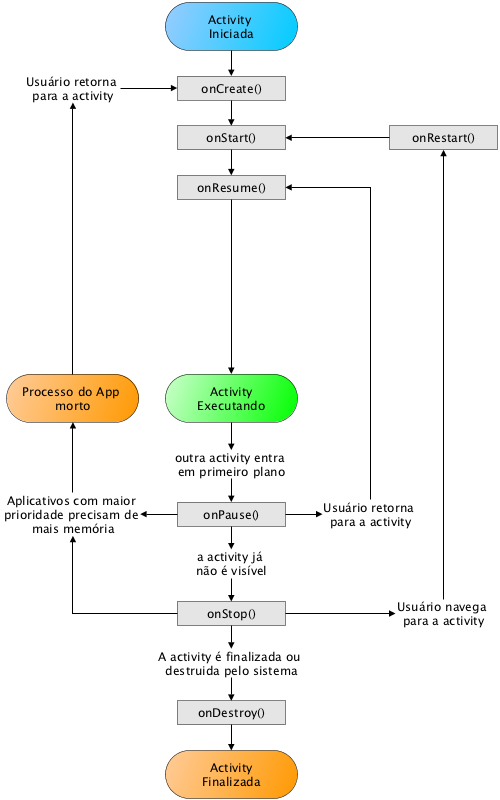
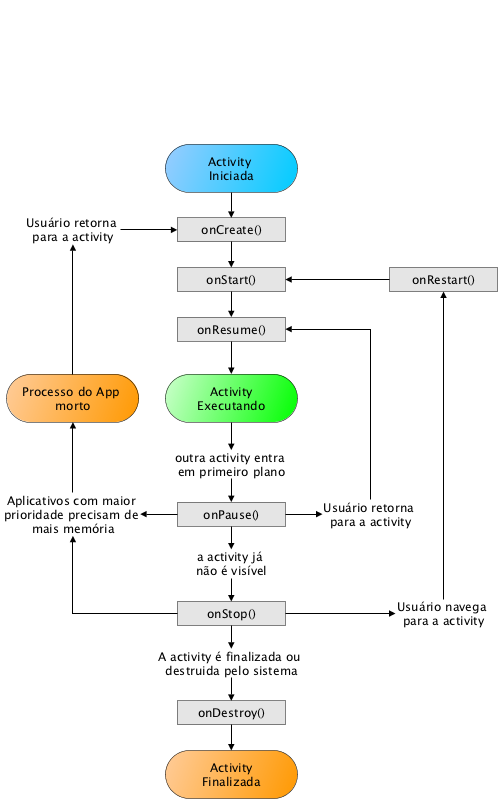
Ajustes nos tamanhos das imagens no documento

diff --git a/dissertation-v2/chapters/chapter-android-challenges.tex b/dissertation-v2/chapters/chapter-android-challenges.tex
@@ -56,19 +56,19 @@ Como exemplo, na Figura \ref{fig:android-lifecycles} apresentamos o ciclo de vid
 \centering
   \begin{subfigure}[b]{.33\textwidth}
     \centering
-    \includegraphics[width=.9\textwidth]{activity-lifecycle.png}
+    \includegraphics[width=1\textwidth]{activity-ciclodevida.png}
     \caption{\textit{Activity} (camada de apresentação).}
     \label{fig:activity-lifecycle}
   \end{subfigure}
   \begin{subfigure}[b]{.33\textwidth}
     \centering
-    \includegraphics[width=.6\textwidth]{fragment-lifecycle.png}
+    \includegraphics[width=1\textwidth]{fragment-ciclodevida.png}
     \caption{\textit{Fragment} (camada de apresentação).}
     \label{fig:activity-lifecycle}
   \end{subfigure}
-  \begin{subfigure}[b]{.30\textwidth}
+  \begin{subfigure}[b]{.33\textwidth}
     \centering
-    \includegraphics[width=.9\textwidth]{service-lifecycle.png}
+    \includegraphics[width=1\textwidth]{service-ciclodevida.png}
     \caption{\textit{Services} (processamento).}
     \label{fig:service-lifecycle}
   \end{subfigure}% 
